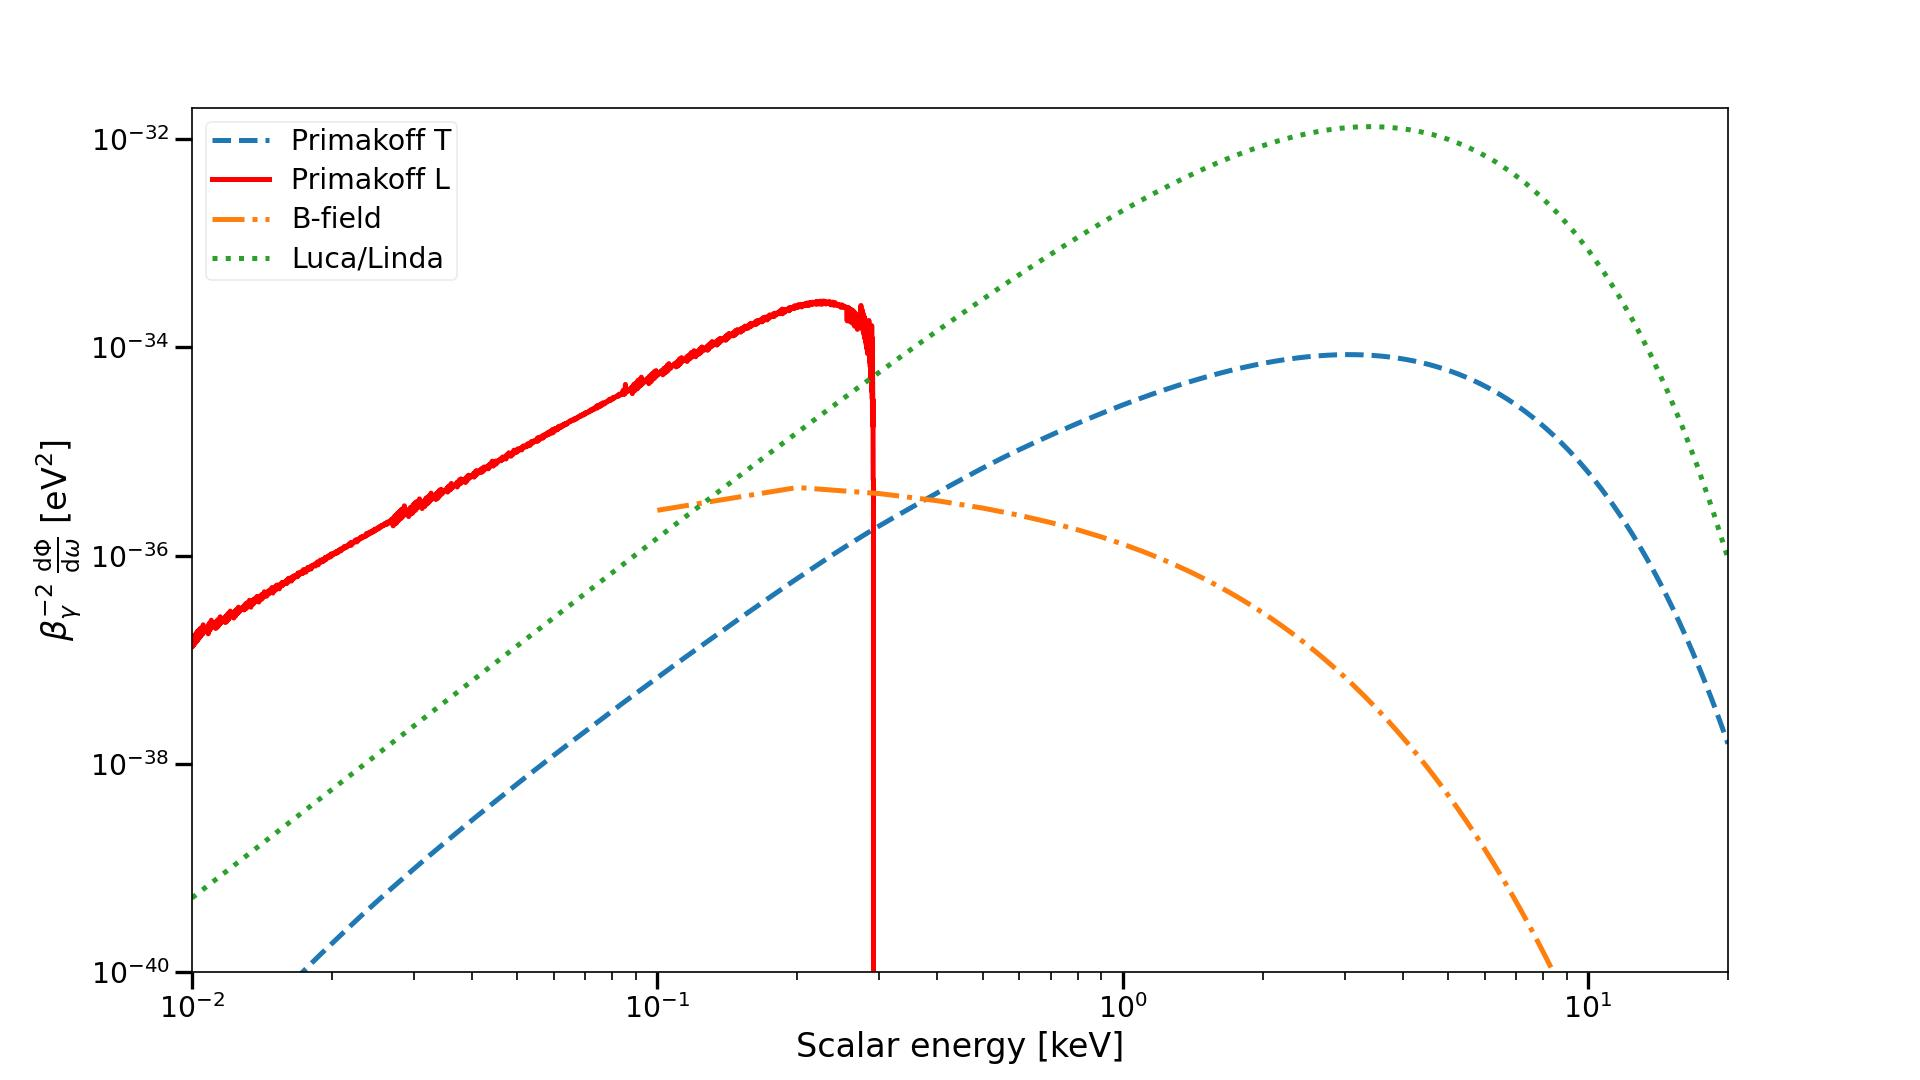
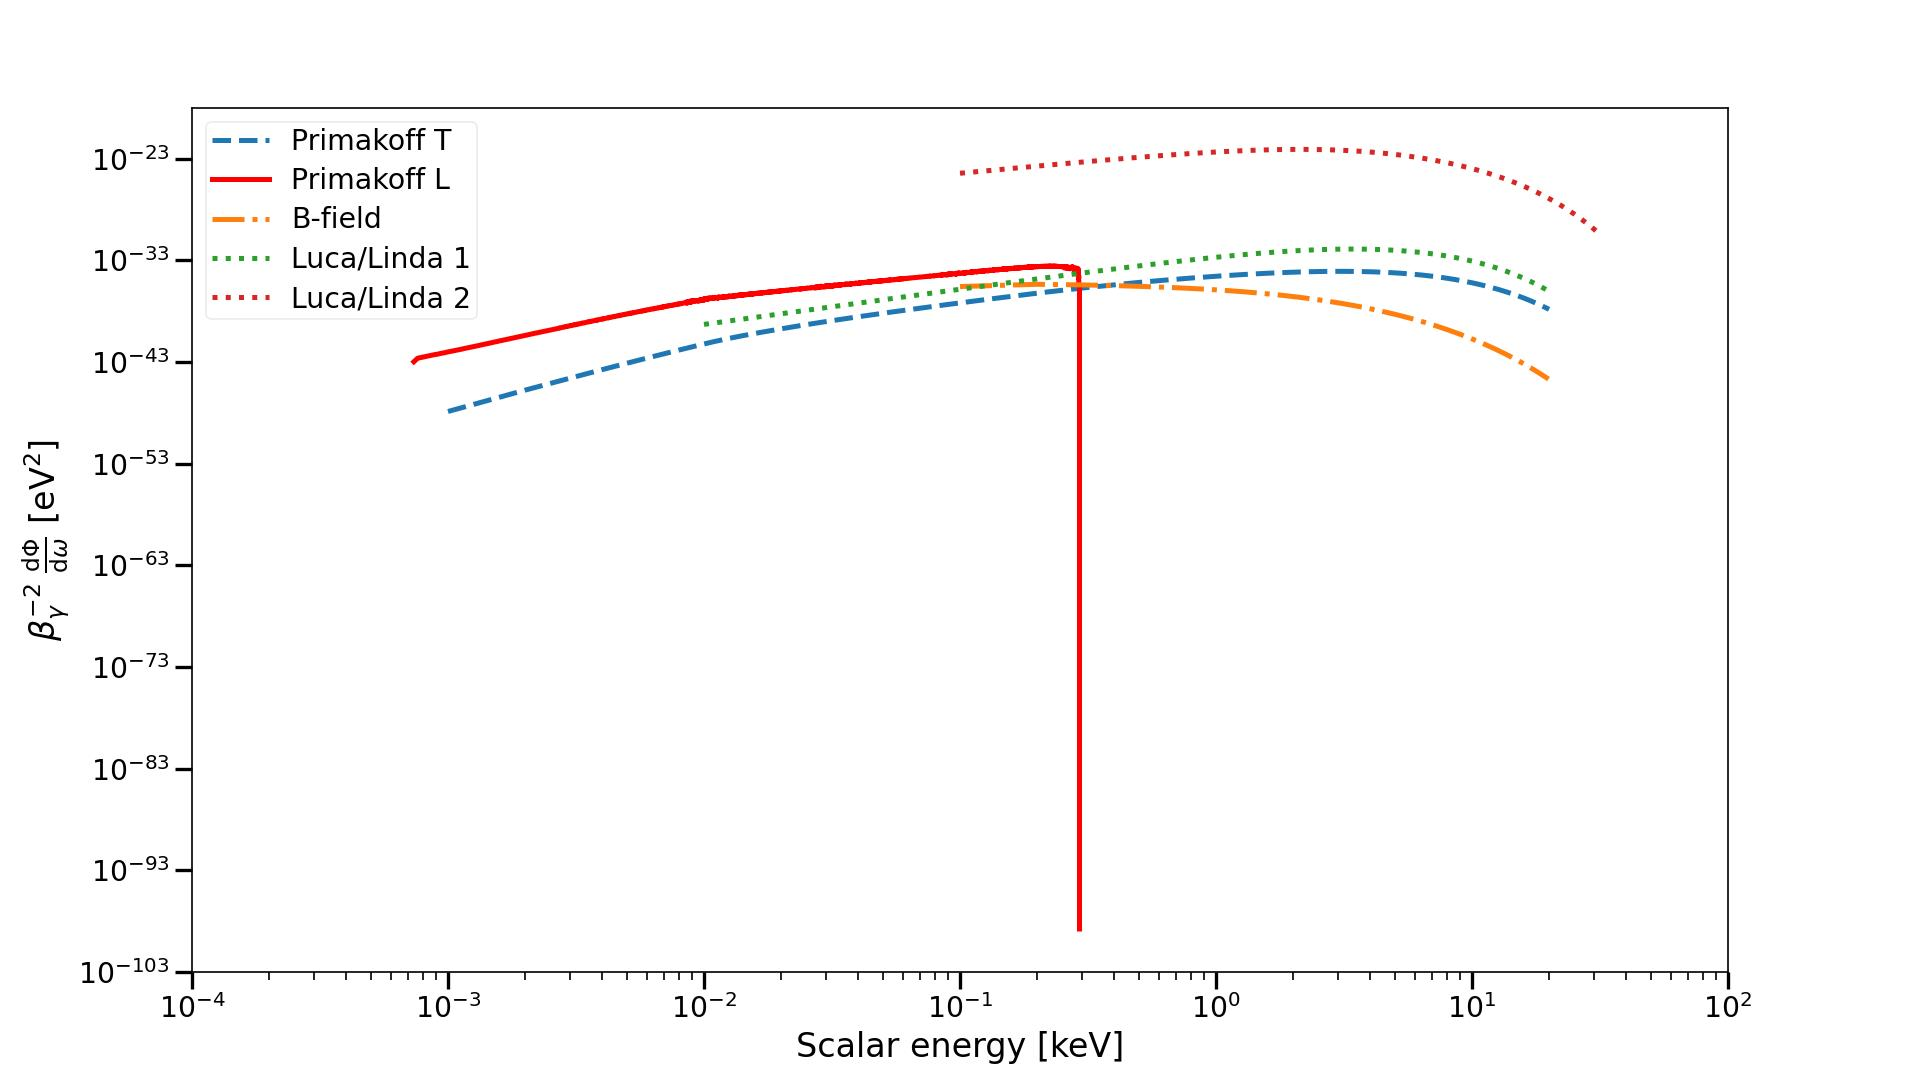
Luca/Linda non-res plots

diff --git a/luca-linda/code/SolarChamelelons-modified.py b/luca-linda/code/SolarChamelelons-modified.py
@@ -344,7 +344,7 @@ if gridresults==1:
 #print(profnonres(1, 1.e7, 1.e10, 1))
 #exit()
 
-plotres=1
+plotres=0
 if plotres==1:
   omp = np.geomspace(0.01, 20, 100)
   mu1 = omp*profnonres(omp, 1.e3, 1, 1)*(RSun/ASun)**2
@@ -420,14 +420,22 @@ plotres=1
 if plotres==1:
   omp = np.linspace(-1, 1.5, 100)
   omp = 10.**omp
-  mu1 = profnonres(omp, 1.e6, 1.e10, 1)
-  mu2 = profnonres(omp, 1.e7, 1.e10, 1)
-  mu3 = profnonres(omp, 1.e8, 1.e10, 1)
-  mu4 = profnonres(omp, 1.e9, 1.e10, 1)
+  print("ello")
+  mu1 = profnonres(omp, 1.e3, 1.e0, 1)
+  savedat=np.array([omp,mu1]).swapaxes(0,1)
+  savedat_name = abs_path+"data/plotnonres_1e3.dat"
+  np.savetxt(savedat_name, savedat, delimiter=',')
+  print("saved file: " + savedat_name)
+  #print("ello2")
+  #mu2 = profnonres(omp, 1.e7, 1.e10, 1)
+  #print("ello3")
+  #mu3 = profnonres(omp, 1.e8, 1.e10, 1)
+  #print("ello4")
+  #mu4 = profnonres(omp, 1.e9, 1.e10, 1)
   plt.plot(omp, mu1, 'r-')
-  plt.plot(omp, mu2, 'b-')
-  plt.plot(omp, mu3, 'm-')
-  plt.plot(omp, mu4, 'g-')
+  #plt.plot(omp, mu2, 'b-')
+  #plt.plot(omp, mu3, 'm-')
+  #plt.plot(omp, mu4, 'g-')
   plt.xscale('log')
   plt.yscale('log')
   plt.show()

diff --git a/plotPrimakoffFluxCham.py b/plotPrimakoffFluxCham.py
@@ -53,8 +53,12 @@ ax2.plot(dat[:,0]/1e3,dat[:,1], ls='-.', label='B-field')
 # luca-linda
 dat = loadtxt("luca-linda/data/plotres_1e3.dat", delimiter=',')	# w [keV], dPhi/dw [cm-2 s-1 keV-1]
 dat[:,1] = dat[:,1]*1e4*m2eV*m2eV*s2eV/1e3
-ax2.plot(dat[:,0],dat[:,1], ls=':', label="Luca/Linda")
+ax2.plot(dat[:,0],dat[:,1], ls=':', label="Luca/Linda 1")
 
+# luca-linda
+dat = loadtxt("luca-linda/data/plotnonres_1e3.dat", delimiter=',')	# w [keV], dPhi/dw [cm-2 s-1 keV-1]
+dat[:,1] = dat[:,1]*1e4*m2eV*m2eV*s2eV/1e3
+ax2.plot(dat[:,0],dat[:,1], ls=':', label="Luca/Linda 2")
 
 #dat = loadtxt("data/primakoffV3_spectrum_n4_1e3.dat")
 #ax2.plot(dat[:,0]/1e3,dat[:,1], ls='-.', label="n=4")
